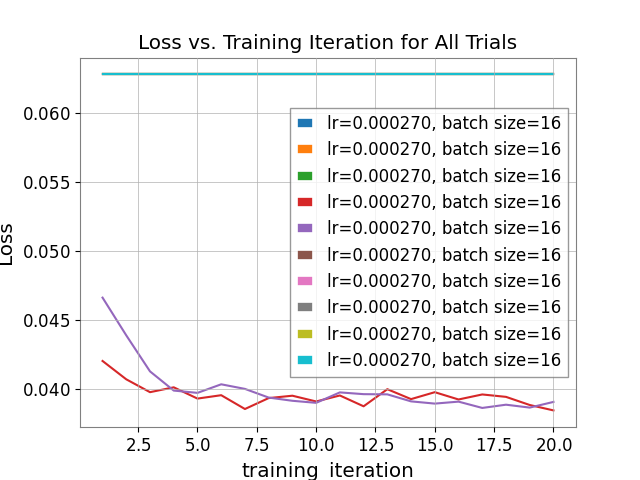
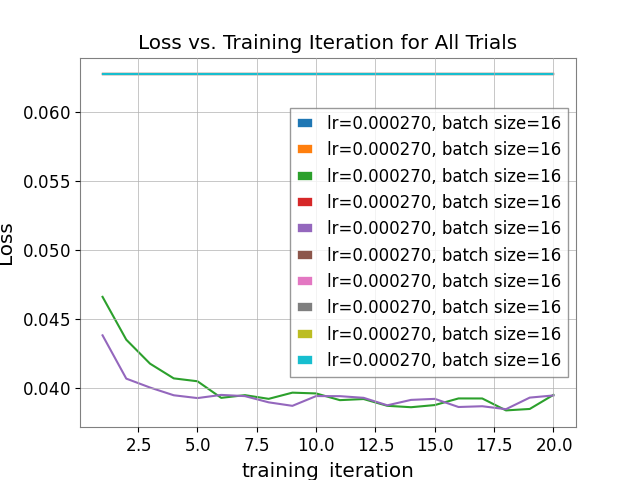
Reproducibility features on train_hpo.py

diff --git a/use-cases/virgo/train_hpo-non-distributed.py b/use-cases/virgo/train_hpo-non-distributed.py
@@ -15,7 +15,6 @@ from ray.tune.schedulers import ASHAScheduler
 from ray import train
 from ray.tune.schedulers.hb_bohb import HyperBandForBOHB
 from ray.tune.search.bohb import TuneBOHB
-from itwinai.torch.reproducibility import set_seed
 
 from src.dataset import (
     generate_dataset_aux_channels,
@@ -148,15 +147,7 @@ def train_decoder(num_epochs, generator, criterion, optimizer, dataloader,
         # Report training metrics of last epoch to Ray
         train.report({"loss": np.mean(val_loss),
                      "train_loss": np.mean(epoch_loss)})
-
-        all_val_losses_the_same = all(loss == val_loss_plot[0] for loss in val_loss_plot)
-        print(
-            f"Were all recorded results of validation loss in epoch {epoch} the same? - {all_val_losses_the_same}")
-
-        all_training_losses_the_same = all(loss == loss_plot[0] for loss in loss_plot)
-        print(
-            f"Were all recorded results of training loss in epoch {epoch} the same? - {all_training_losses_the_same}")
-
+        
     return loss_plot, val_loss_plot, acc_plot, val_acc_plot
 
 
@@ -271,10 +262,9 @@ def run_hpo(args):
     if not args.load_old_results:
 
         # Initialize Ray with cluster configuration from environment variables
-        ray.init(
-            address=os.environ["ip_head"],  
-            _node_ip_address=os.environ["head_node_ip"],
-        )
+        # ray.init(
+        # address=os.environ["ip_head"],  
+        # _node_ip_address=os.environ["head_node_ip"])
 
         # Define the search space for hyperparameters
         search_space = {
@@ -298,11 +288,12 @@ def run_hpo(args):
         )
 
         # Set resource allocation for each trial (number of GPUs and/or number of CPUs)
-        resources_per_trial = {"gpu": args.ngpus}
+        #resources_per_trial = {"gpu": args.ngpus}
 
         # Set up Ray Tune Tuner
         tuner = tune.Tuner(
-            tune.with_resources(main, resources=resources_per_trial),
+            main,
+            #tune.with_resources(main, resources=resources_per_trial),
             tune_config=tune_config,
             run_config=run_config,
             param_space=search_space  # Search space defined above
@@ -404,7 +395,6 @@ if __name__ == "__main__":
                         default='20', help='...')
     args = parser.parse_args()  # Parse the command-line arguments
 
-    set_seed(200)
 
     # Check for available GPU
     if torch.cuda.is_available():
